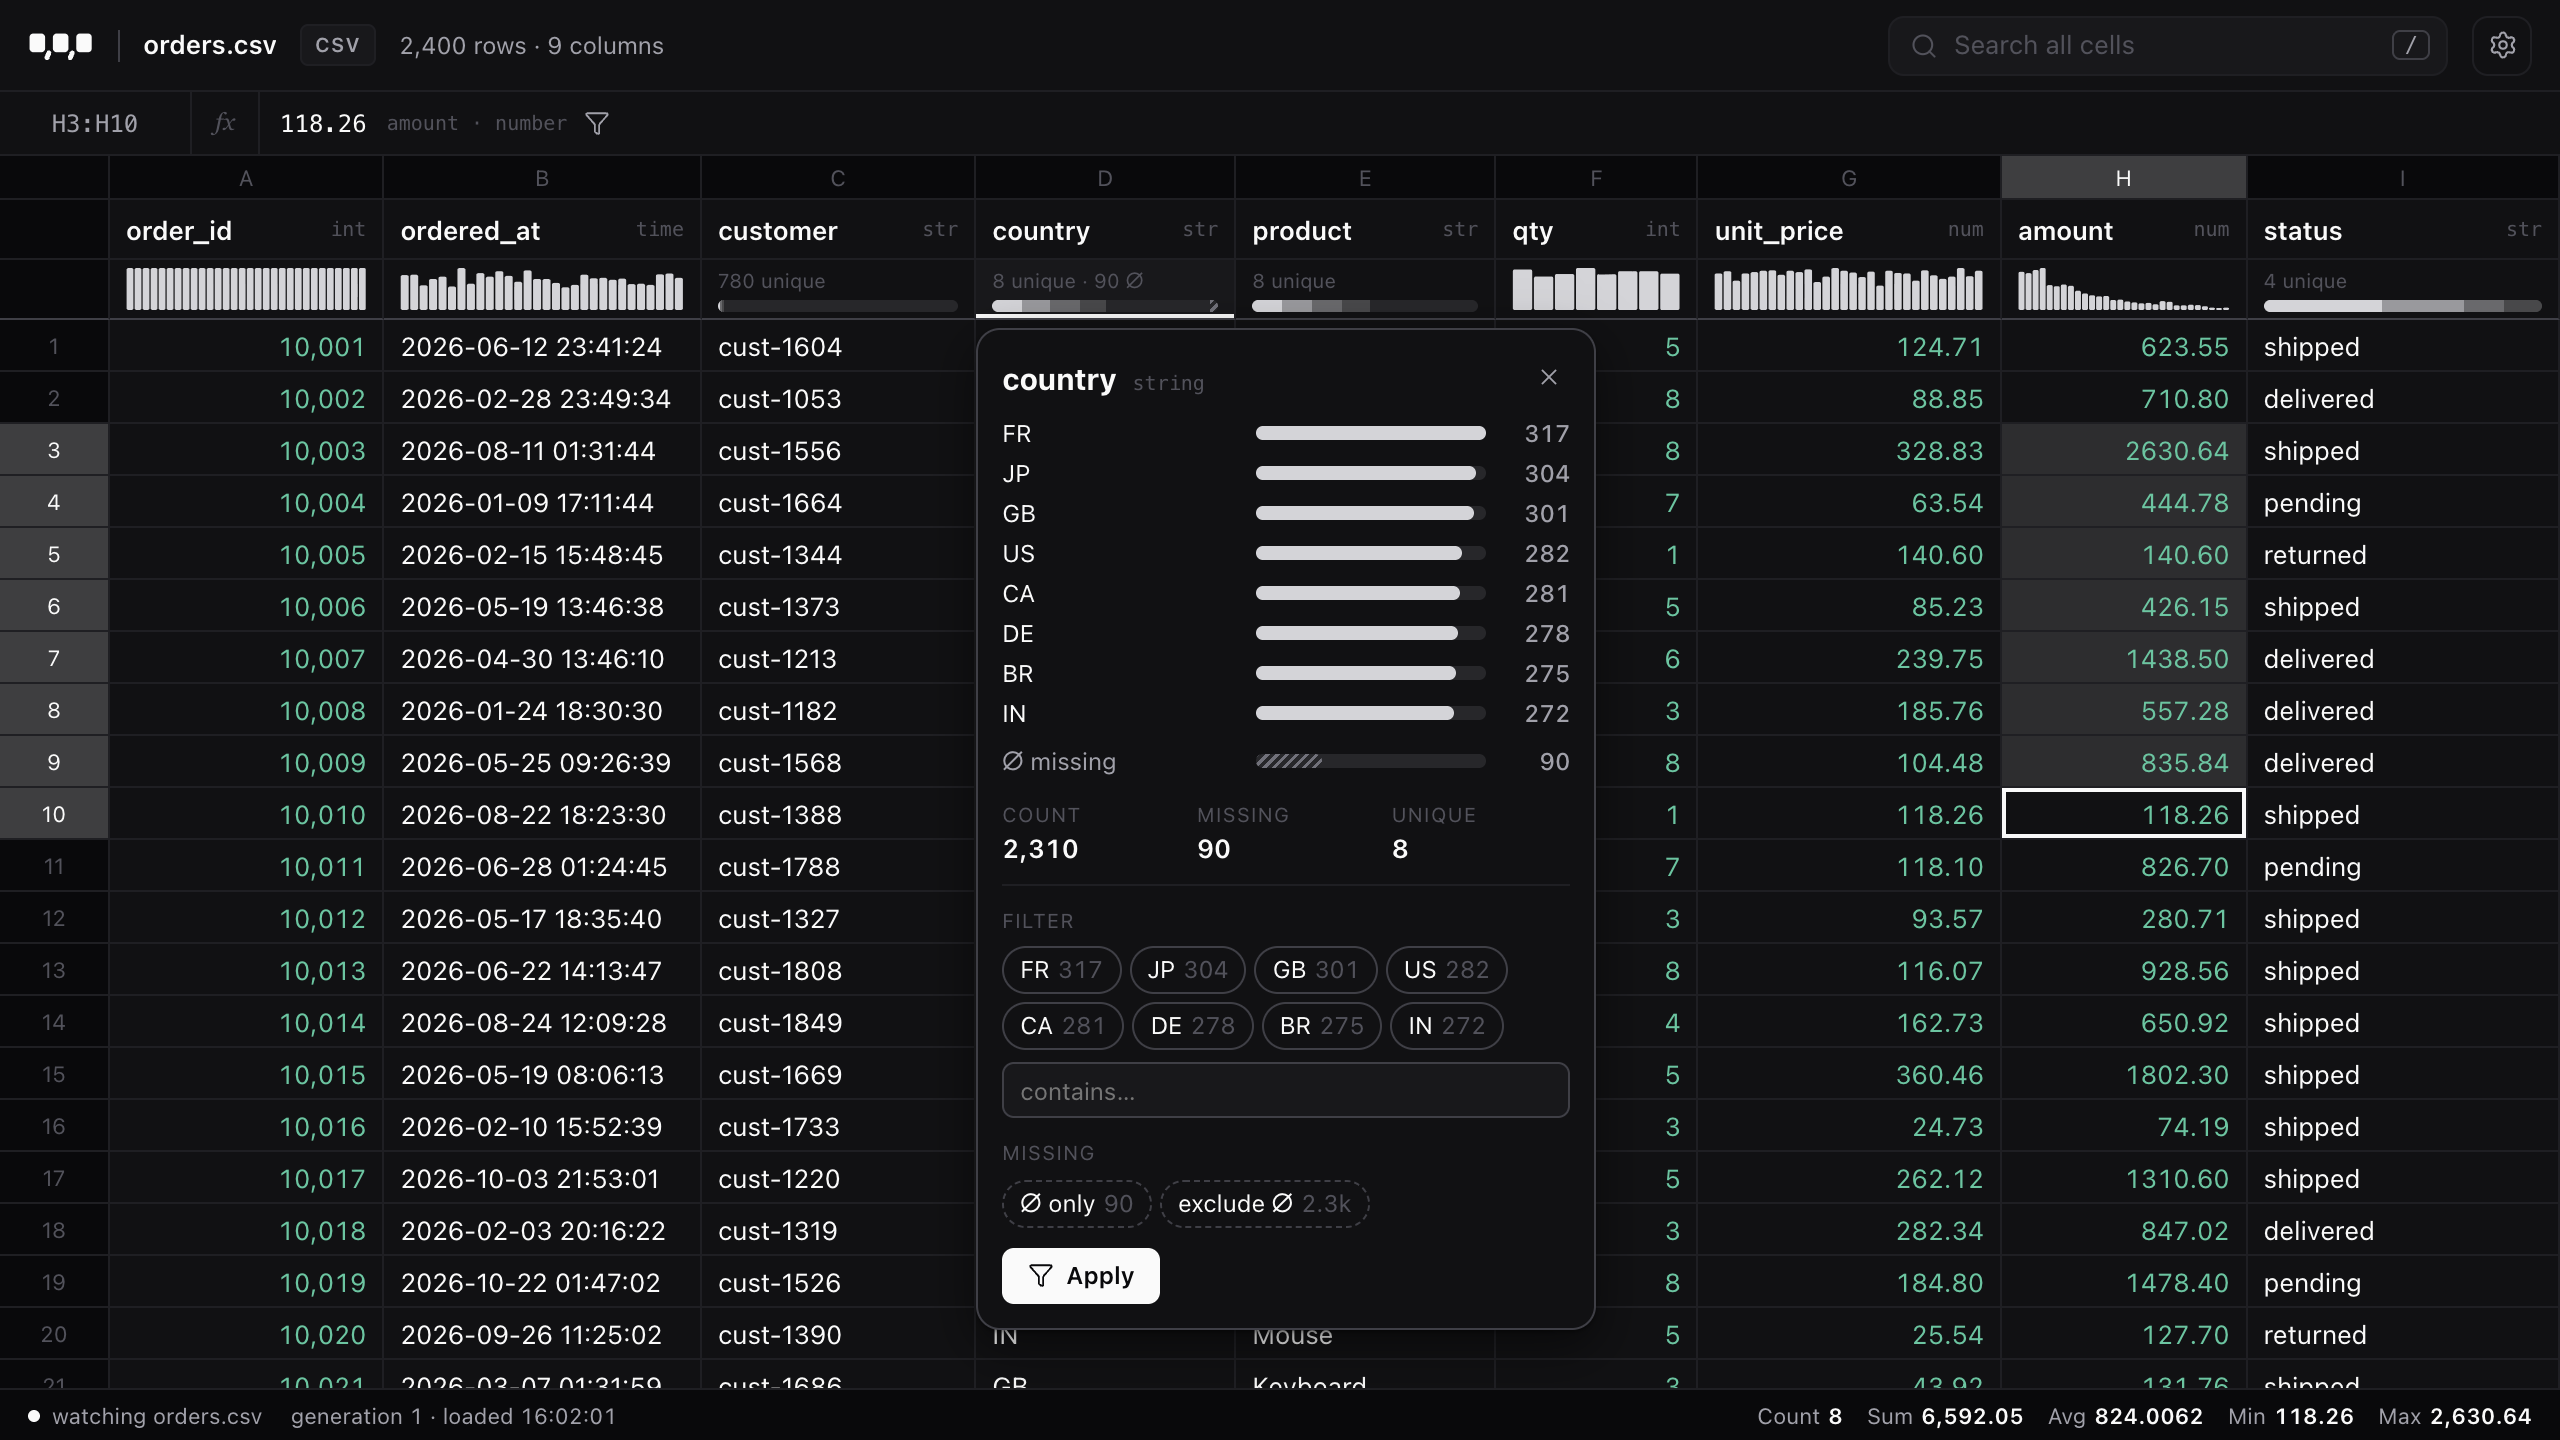
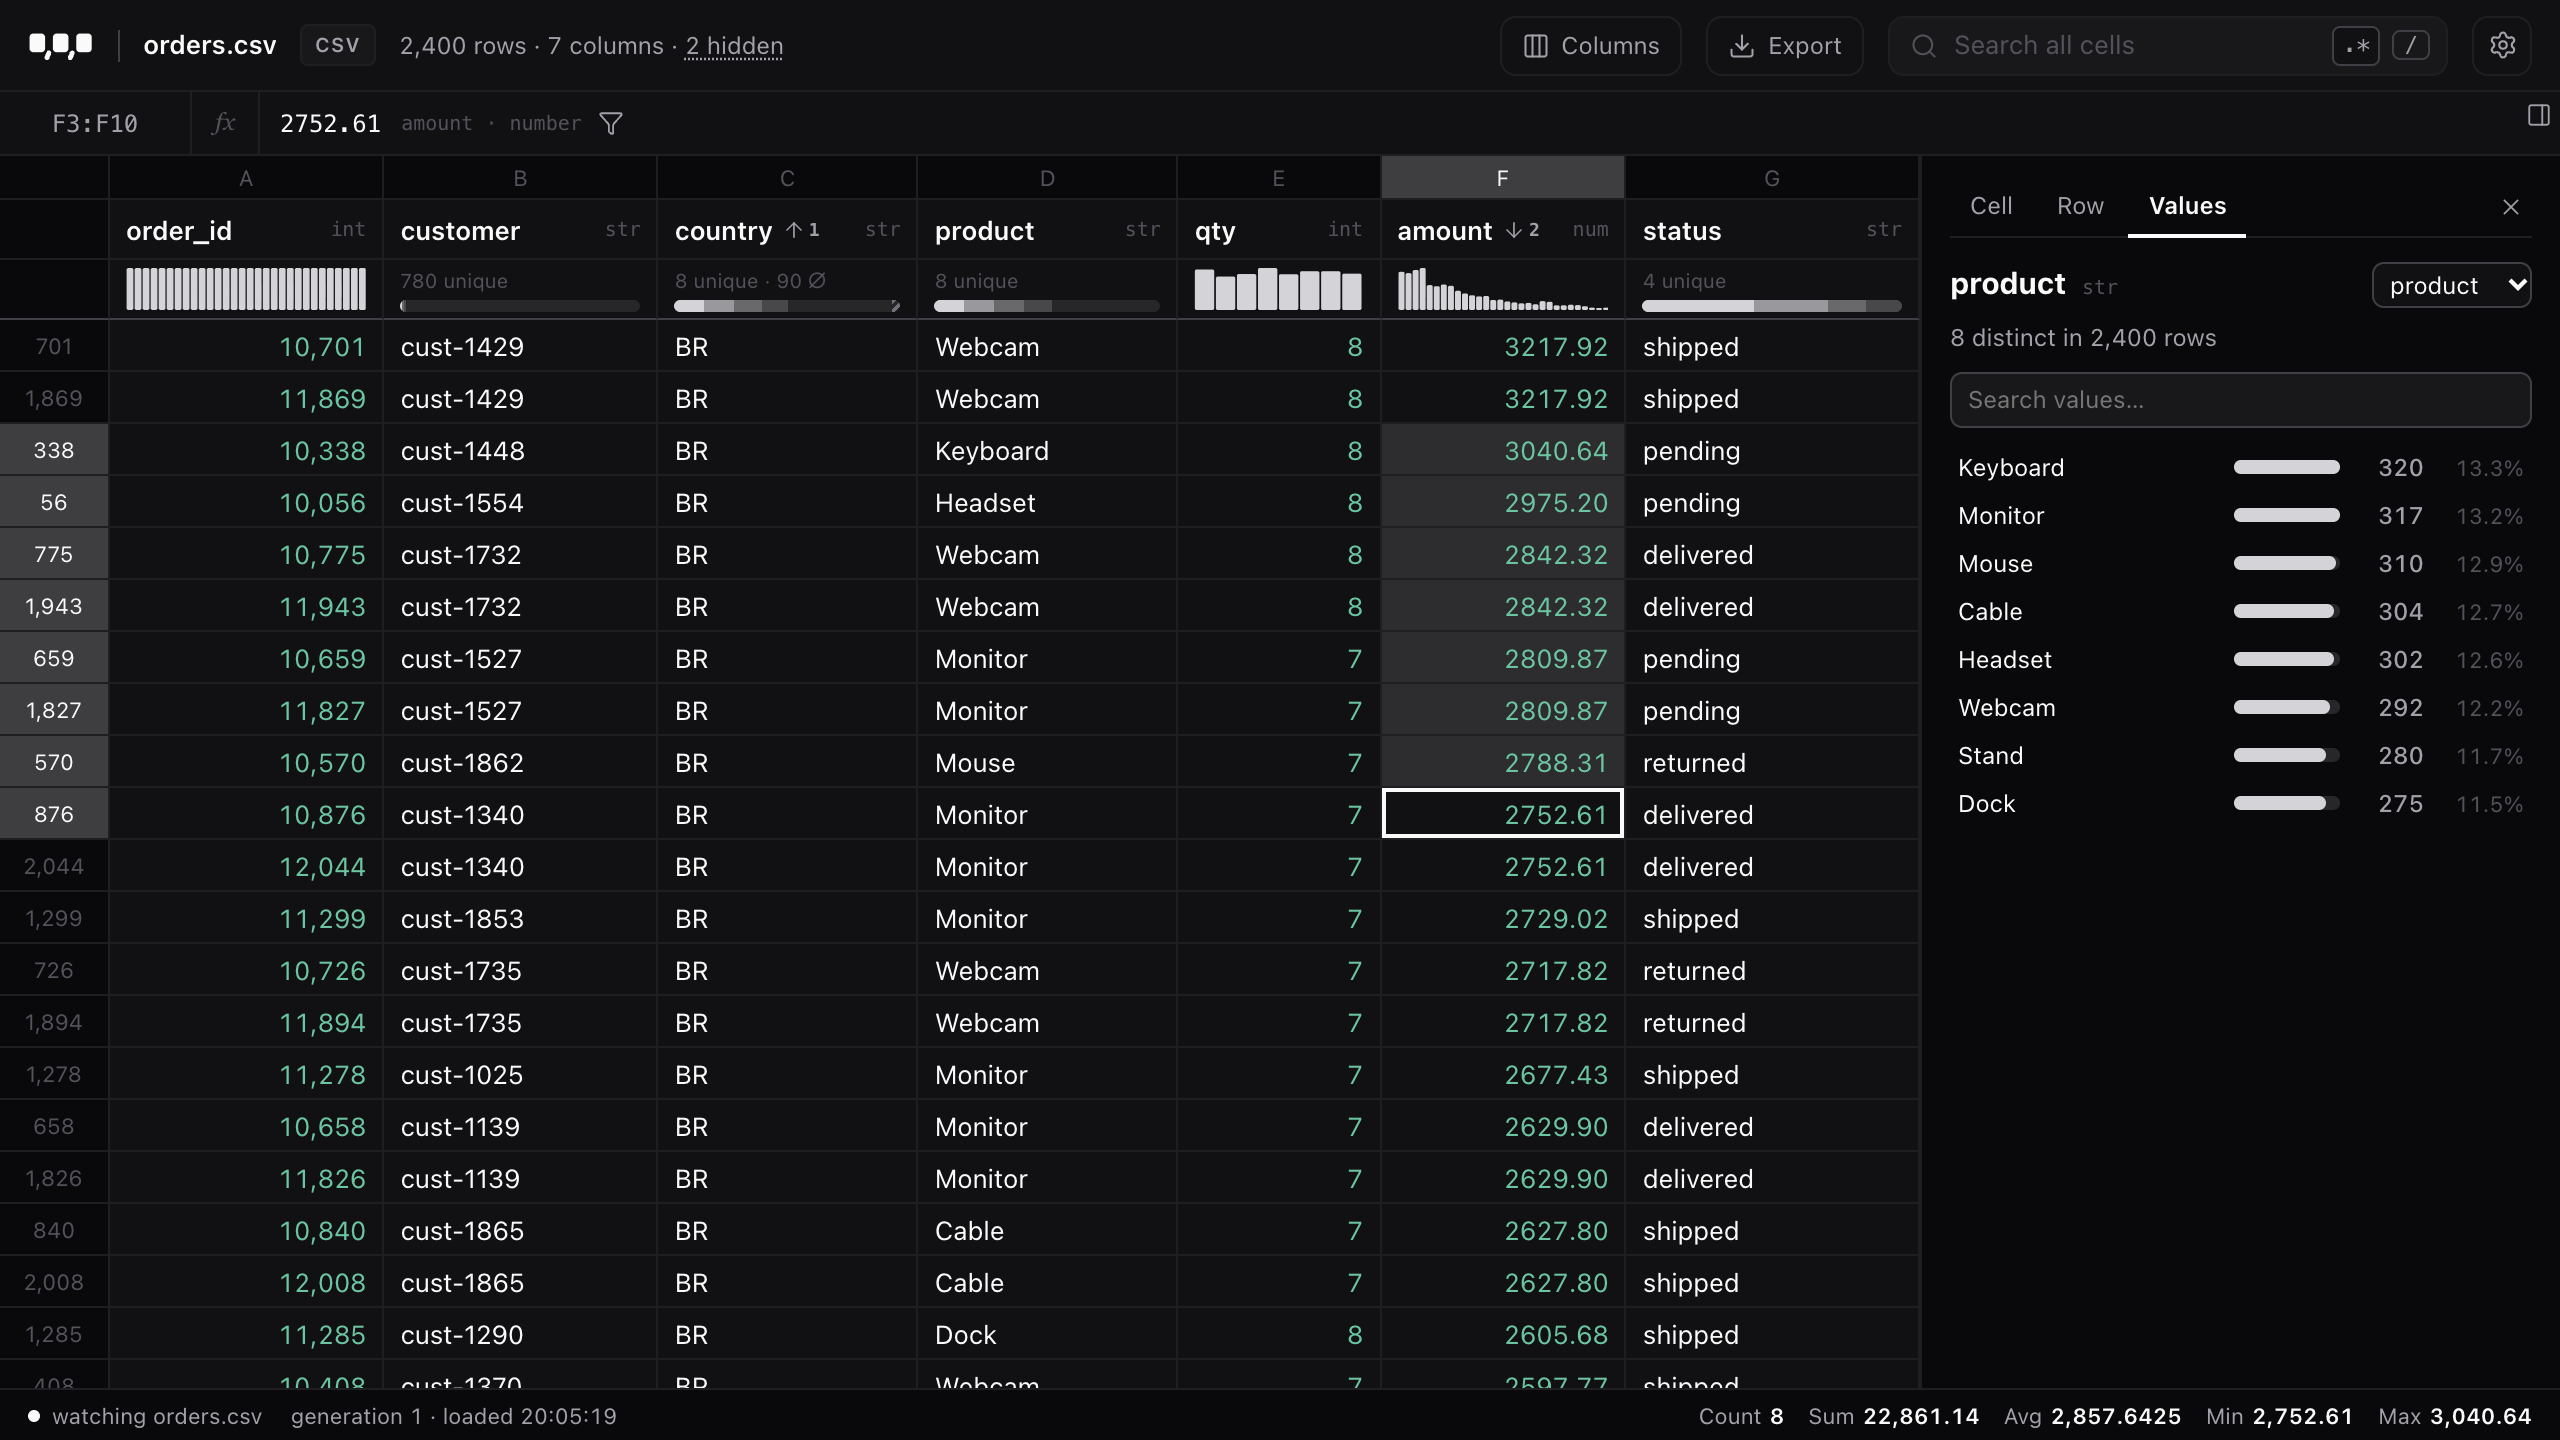
Describe the new features in the README
The name now stands for eXtended xsv: what xsv's commands do on the
command line, xxsv does in the browser. The features list hidden and
moved columns, sorting by several columns, regular expressions, a
column's values, a row on its own and exporting; the key table gains
the column-name clicks and Enter. The pictures, taken again, show two
sort keys, hidden columns and a column's values.

diff --git a/web/scripts/screenshot.ts b/web/scripts/screenshot.ts
@@ -1,8 +1,10 @@
 // Takes docs/screenshot-light.png and docs/screenshot-dark.png for the
 // README: builds xxsv, opens a generated table of orders (no real data),
-// selects a range so the status bar shows its sum, opens a column's
-// distribution, and captures the page in the light and the dark theme
-// (the page follows the browser's color scheme by default).
+// hides two columns, sorts it by two others, lists a column's values in the
+// side panel,
+// selects a range so the status bar shows its sum, and captures the page in
+// the light and the dark theme (the page follows the browser's color scheme
+// by default).
 //
 //	cd web && npm run build && npm run screenshot
 //
@@ -59,14 +61,21 @@ try {
 
 async function shoot(scheme: "light" | "dark") {
   const page = await browser.newPage({ viewport: { width: 1280, height: 720 }, deviceScaleFactor: 2, colorScheme: scheme });
-  await page.goto(url);
+  // Two columns hidden, so the rest fits beside the side panel.
+  const view = { search: "", regex: false, filters: [], sorts: [], columns: ["order_id", "customer", "country", "product", "qty", "amount", "status"], top: 0 };
+  await page.goto(url + "#" + encodeURIComponent(JSON.stringify(view)));
   await page.locator("#rows .row:not(.loading)").first().waitFor();
   const cell = (r: number, c: number) => page.locator(`#rows [data-r="${r}"][data-c="${c}"]`);
-  await cell(2, 7).click();
-  await cell(9, 7).click({ modifiers: ["Shift"] });
-  await page.locator("#agg b").first().waitFor();
+  await page.locator('[data-sort="country"]').click();
+  await page.locator('[data-sort="amount"]').click({ modifiers: ["Shift"] });
+  await page.locator('[data-sort="amount"]').click({ modifiers: ["Shift"] }); // descending
+  await page.locator('[data-sort="amount"] .prio').waitFor();
   await page.locator('[data-prof="3"]').click();
-  await page.locator("#colpop").waitFor();
+  await page.locator("#colpop").getByRole("button", { name: "All values" }).click();
+  await page.locator("#pinpanel .vals-item").first().waitFor();
+  await cell(2, 5).click();
+  await cell(9, 5).click({ modifiers: ["Shift"] });
+  await page.locator("#agg b").first().waitFor();
   await page.mouse.move(1200, 700); // no hover marks
   const out = join(root, "docs", `screenshot-${scheme}.png`);
   await page.screenshot({ path: out });

diff --git a/README.md b/README.md
@@ -6,13 +6,13 @@ xxsv shows a CSV, TSV or JSONL file as a table in your browser and keeps it up t
   <picture>
     <source media="(prefers-color-scheme: dark)" srcset="docs/screenshot-dark.png">
     <source media="(prefers-color-scheme: light)" srcset="docs/screenshot-light.png">
-    <img alt="xxsv showing a table of orders, with a range selected and the distribution of a column open" src="docs/screenshot-light.png">
+    <img alt="xxsv showing a table of orders sorted by two columns, with a range selected and a column's values listed in the side panel" src="docs/screenshot-light.png">
   </picture>
 </p>
 
 Run `xxsv data.csv` and a page opens with the table. Save the file in your editor, and the page reloads it in place: the sort, the filters, the search and the scroll position stay, and the cells that changed glow for a moment.
 
-The name, xxsv (ex-ex-es-vee), comes from [xsv](https://github.com/BurntSushi/xsv), the CSV toolkit. The second x stands for "any": any separator, and line formats that are not separated values at all, such as JSONL. It is a separate tool, not a successor to xsv: xsv transforms files on the command line, and xxsv shows one in the browser while it changes.
+The name, xxsv (ex-ex-es-vee), stands for eXtended [xsv](https://github.com/BurntSushi/xsv), the CSV toolkit. What xsv's commands do on the command line, selecting columns, sorting, searching, counting values, slicing, xxsv does in the browser, on any separator and on JSONL too, while the file changes. It is a separate tool, not a successor to xsv.
 
 ## Features
 
@@ -20,6 +20,11 @@ The name, xxsv (ex-ex-es-vee), comes from [xsv](https://github.com/BurntSushi/xs
 - Large files. The server holds the table and the page fetches only the rows in view, so a file of a million rows scrolls, sorts and filters without loading the browser.
 - Spreadsheet-like. Select cells, ranges, whole columns or rows with the mouse or the arrow keys, and see the count, sum, average, minimum and maximum of the range.
 - A distribution for every column. A histogram or the top values sit under each column name; click one for statistics and filters.
+- Columns. Hide columns and drag them into another order, and sort by several columns at once.
+- Search and filter with plain text or regular expressions (RE2), across all cells or in one column.
+- Values. List every value of a column with its count, most frequent first, and filter by one with a click.
+- Rows. Show the selected row with every column on its own line, the hidden ones too.
+- Export what you see, every matching row in the shown columns and order, as CSV, TSV or JSONL.
 - Types. Each column is read as integer, number, date, datetime, boolean, string or JSON, so numbers sort as numbers and dates filter by range. Missing cells and cells that do not fit the column's type are told apart and can be filtered.
 - Long values. JSON and long text open in a popover next to the cell, pretty-printed, or in a side panel.
 - One binary, local only. The UI is built in, and the page talks to nothing but xxsv on 127.0.0.1.
@@ -71,11 +76,16 @@ In the page:
 | Key | Action |
 |---|---|
 | Arrow keys | Move the selection; with Shift, extend the range |
+| Click a column name | Sort by that column: ascending, descending, off |
+| Shift-click a column name | Add it as the next sort key, or turn its key around or off |
+| Enter | Show the selected row in the side panel |
 | Space, double-click | Show the full value of a long cell |
-| `/` | Search all cells |
-| Esc | Close a popover, leave the search |
+| `/` | Search all cells (`.*` beside the box for a regular expression) |
+| Esc | Close a popover or a menu, leave the search |
 
-The view (search, filters, sort, scroll position) is kept in the URL, so a reload of the page or a copied link opens the same view. Settings (theme, accent, number colors, digit grouping, histogram scale) are saved in the browser.
+A column's distribution, under its name, opens its statistics and filters, and from there the list of its values or hiding it. The Columns button lists every column to show, hide and move; Export writes the view to a file.
+
+The view (search, filters, sort keys, shown columns, scroll position) is kept in the URL, so a reload of the page or a copied link opens the same view. Settings (theme, accent, number colors, digit grouping, histogram scale) are saved in the browser.
 
 ## How cells are read
 
